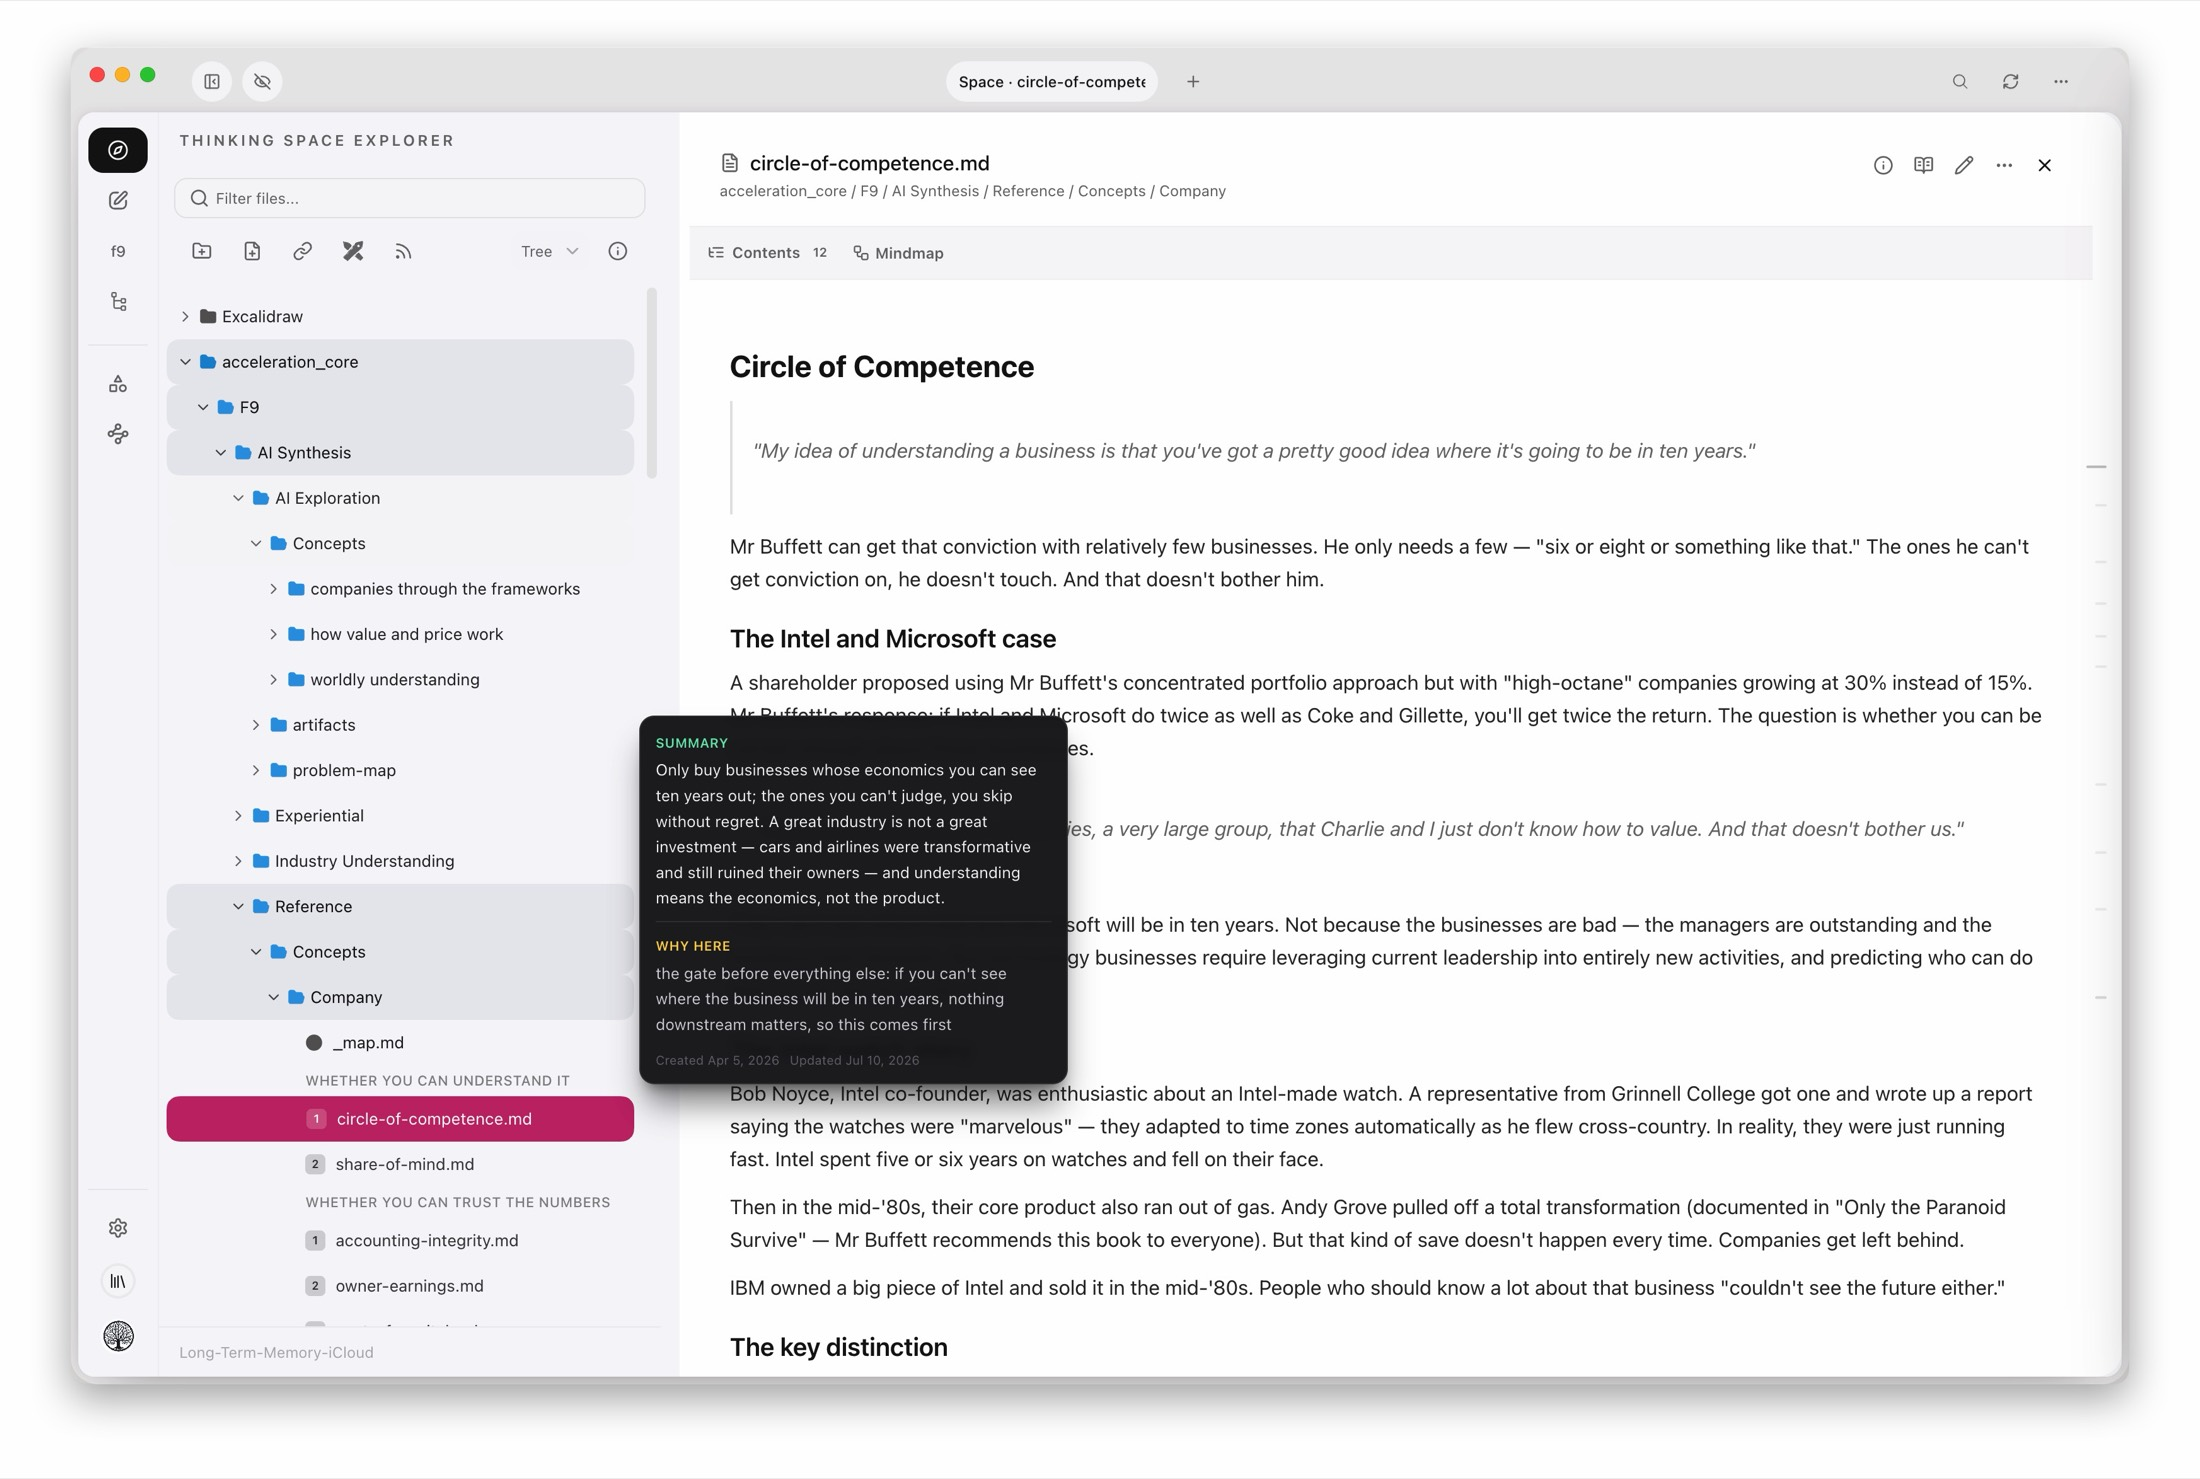
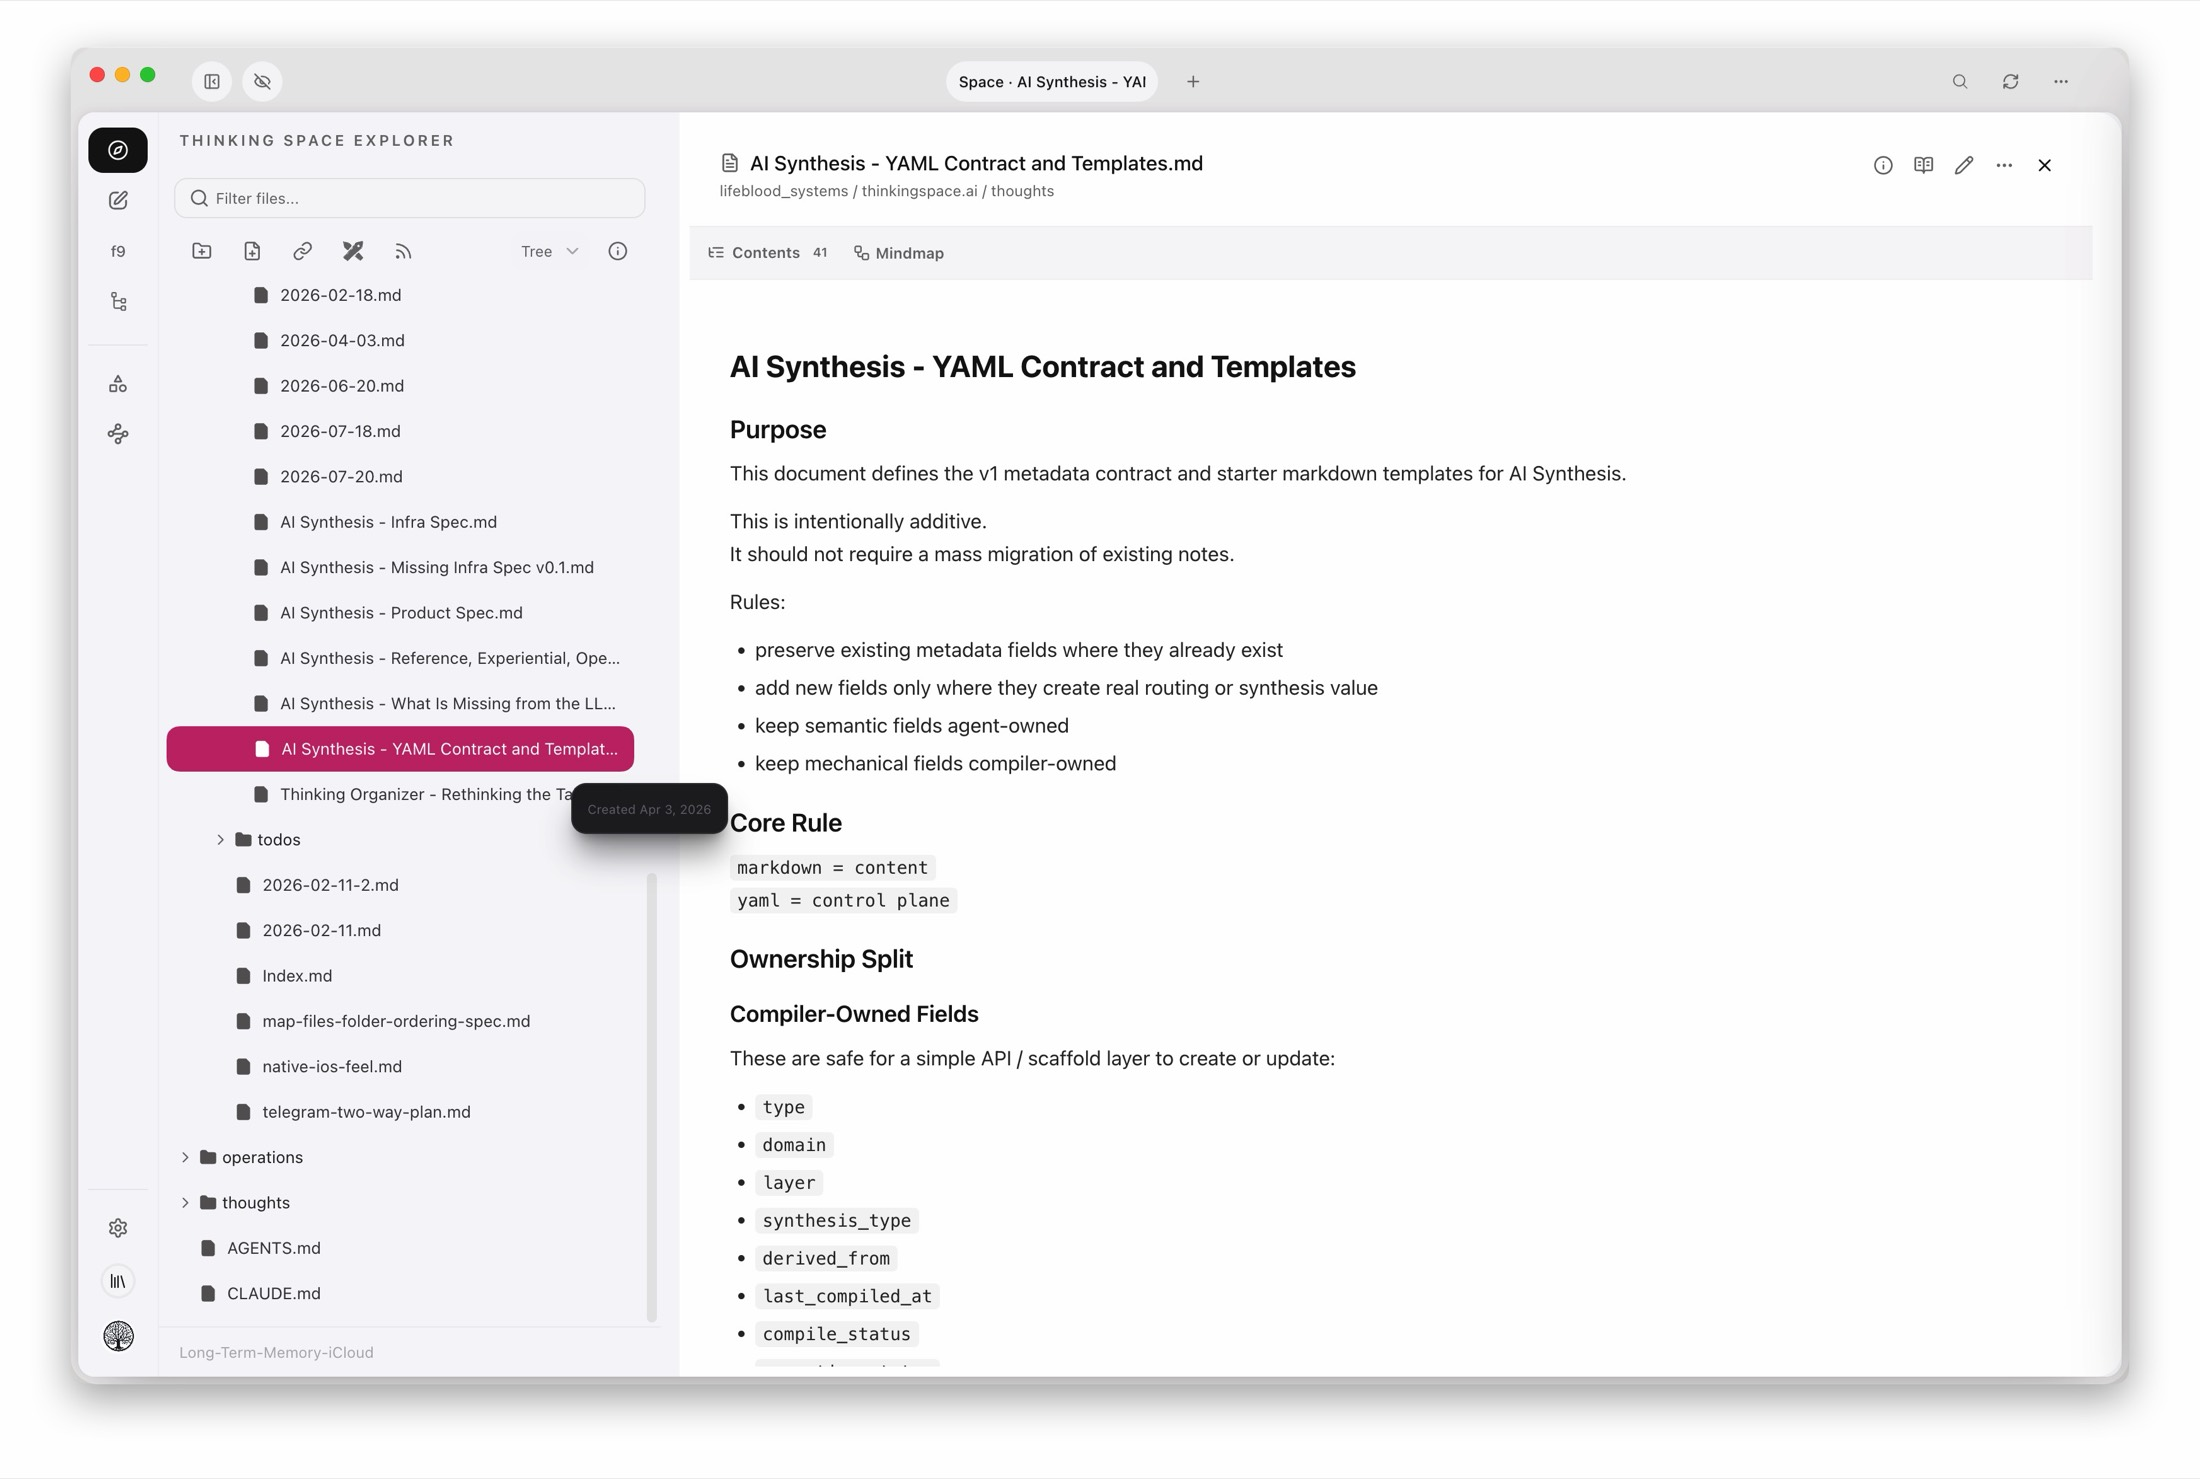
docs(readme): swap the explorer shot for a less personal one
The previous capture showed a private vault tree and a hover card with
note content in it. This one stays on public-facing project docs. Caption
rewritten to match — the new frame shows the outline/mindmap chrome, not
the summary hover card.

Claude-Session: https://claude.ai/code/session_01GcSwvtDjEzCLK6JdM8BiY2

diff --git a/README.md b/README.md
@@ -59,7 +59,7 @@ Use an existing notes folder or start a new one (a cloud-synced folder keeps it 
 <p align="center">
   <img src="docs/screenshots/explorer-workspace.jpg" alt="Thinking Space explorer workspace" width="900" />
   <br />
-  <em>The markdown workspace — vault explorer with <code>_map.md</code> section headers, and a hover card showing a note's summary and why it's filed there</em>
+  <em>The markdown workspace — vault explorer on the left, the rendered note on the right, with a contents outline and mindmap a click away</em>
 </p>
 
 <p align="center">
